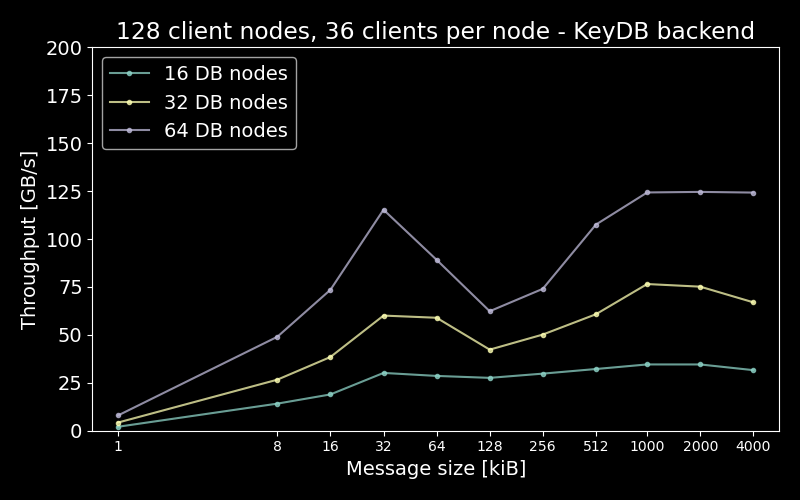
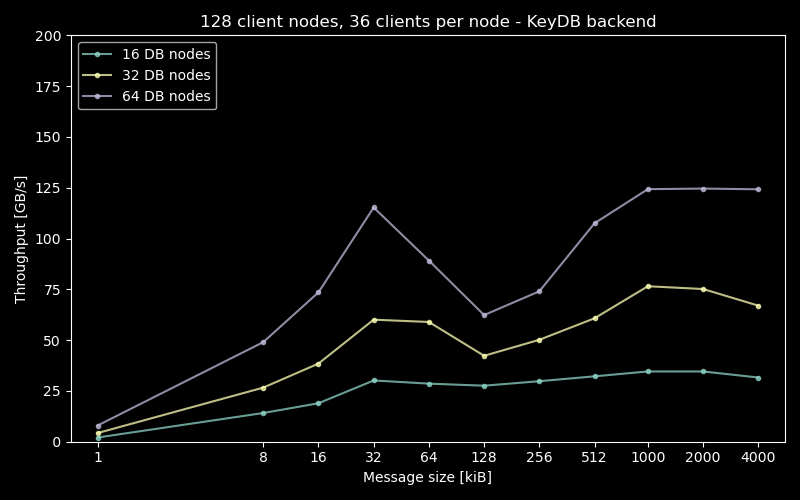
Fix figures and names, add comments to plotter

diff --git a/figures/throughput-plotter.py b/figures/throughput-plotter.py
@@ -1,4 +1,3 @@
-# %%
 import os
 import matplotlib.pyplot as plt
 import matplotlib
@@ -9,25 +8,19 @@ import seaborn as sns
 from itertools import product
 from tqdm.auto import tqdm
 
-font = {'family' : 'sans',
-        'weight' : 'normal',
-        'size'   : 14}
-matplotlib.rc('font', **font)
 
 palette = sns.set_palette("colorblind", color_codes=True)
 
-backends = ["KeyDB","Redis"]
+backends = ["Redis","KeyDB"]
 nnodes_all = [128,256,512]
 
 
 for backend, nnodes in tqdm(product(backends, nnodes_all), total=len(backends)*len(nnodes_all), desc="Product loop"):
 
-    base_path = f"./throughput-scaling-{backend.lower()}-2"
-    #print(base_path)
+    # Adapt to your setup
+    base_path = f"../throughput-scaling-{backend.lower()}"
 
-    # nnodes = 128
     DB_nodes = [16,32,64]
-    #sizes = [1024, 1024000, 131076, 16384, 2048000, 262152, 32769, 4096000, 524304, 65538, 8192]
     sizes = [1024, 1024000, 131072, 16384, 2048000, 262144, 32768, 4096000, 524288, 65536, 8192]
     threads = 36
     loop_iters = 100
@@ -35,13 +28,12 @@ for backend, nnodes in tqdm(product(backends, nnodes_all), total=len(backends)*l
 
     df_dbs = dict()
 
-
-    for DB_node in tqdm(DB_nodes, leave=False, desc=f"DB node analysis loop for {backend}-{nnodes}"):
+    for DB_node in tqdm(DB_nodes, leave=False, desc=f"{backend}-{nnodes}"):
 
         dfs = dict()
 
-        for size in tqdm(sizes, leave=False, desc=f"Size analysis loop for {DB_node} DB nodes"):
-            path_root = os.path.join(base_path, f'thoughput-sess-N{nnodes}-T{threads}-DBN{DB_node}-ITER{loop_iters}-TB{size}-*')
+        for size in tqdm(sizes, leave=False, desc=f"{DB_node} DB nodes"):
+            path_root = os.path.join(base_path, f'throughput-sess-N{nnodes}-T{threads}-DBN{DB_node}-ITER{loop_iters}-TB{size}-*')
             try:
                 globbed = glob(path_root)            
                 path = globbed[0]
@@ -60,22 +52,19 @@ for backend, nnodes in tqdm(product(backends, nnodes_all), total=len(backends)*l
                                     speed = size*loop_iters/float(vals[2])/1e9
                                     function_times[vals[1]].append(speed)
 
-                #function_times = {'loop_time': function_times['loop_time']}
                 speed = function_times['loop_time']
-                # speed.sort()
-                #function_times['loop_time'] = speed[:-4]
+
                 speed = function_times['loop_time']
-                # print(min(speed), max(speed))
                 data_df = pd.DataFrame(function_times)
                 dfs[size] = data_df
 
-                # print(f"Completed {size} size for {DB_node} DB nodes")
             except:
                 print("WARNING, MISSING PATH:", path_root)
                 
 
         df_dbs[DB_node] = dfs
 
+    # Set to false if this code is run inside a notebook
     save = True
 
     for dark in tqdm([True, False], leave=False, desc="Plot style loop"):
@@ -84,8 +73,9 @@ for backend, nnodes in tqdm(product(backends, nnodes_all), total=len(backends)*l
             plot_color="dark"
         else:
             plt.style.use("default")
-            plot_color="bright"
+            plot_color="light"
 
+                    
         labels = ["loop_time"]
 
         legend_entries = []
@@ -93,7 +83,7 @@ for backend, nnodes in tqdm(product(backends, nnodes_all), total=len(backends)*l
         ranks = np.asarray(sizes)
         whiskers = 1e9
         color_short = "rgbmy"
-        plot_type = "violin"
+        plot_type = "agg"
 
         rank_pos = np.log(ranks/ranks[0])+1
 
@@ -103,59 +93,70 @@ for backend, nnodes in tqdm(product(backends, nnodes_all), total=len(backends)*l
 
         quantiles = [[0.25, 0.75] for _ in ranks]
 
-        # Set subplot_index to None to plot to separate files
         for label in tqdm(labels, desc=f"Dark plot: {dark}", leave=False):
 
             fig, ax = plt.subplots(figsize=(8,5))
-            # ax2 = ax.twinx()
+
+            if plot_type != "agg":
+                ax2 = ax.twinx()
             
             for i, DB_node in enumerate(tqdm(DB_nodes, leave=False, desc="DB node plot loop")):
                 dfs = df_dbs[DB_node]
                 data_list = [dfs[size][label] for size in sizes]
                 props_dict = {"color": sns.color_palette()[i]}
-                positions = rank_pos # rank_pos+spacing*(i-(len(DB_nodes)-1)/2)
+                
+                positions = rank_pos if plot_type == "agg" else rank_pos+spacing*(i-(len(DB_nodes)-1)/2)
                 means = [np.sum(dfs[size][label]) for size in sizes]
                 ax.plot(positions, means, '.-', color=props_dict['color'], alpha=0.75)
-                # if plot_type=="violin":
-                #     plot = ax2.violinplot(data_list, positions=positions,
-                #                         widths=widths, showextrema=True)
-                #     [col.set_alpha(0.3) for col in plot["bodies"]]
-                #     entry = plot["cbars"]
-                #     legend_entries.append(entry)
-                # else:
-                #     plot = ax2.boxplot(data_list, showfliers=True, positions=positions, whis=whiskers, labels=['']*len(ranks),
-                #                     boxprops=props_dict, whiskerprops=props_dict, medianprops=props_dict, capprops=props_dict, widths=widths/2)
-                #     legend_entries.append(plot["whiskers"][0])
+                if plot_type != "agg":
+                    if plot_type=="violin":
+                        plot = ax2.violinplot(data_list, positions=positions,
+                                            widths=widths, showextrema=True)
+                        [col.set_alpha(0.3) for col in plot["bodies"]]
+                        entry = plot["cbars"]
+                        legend_entries.append(entry)
+                    elif plot_type=="boxplot":
+                        plot = ax2.boxplot(data_list, showfliers=True, positions=positions, whis=whiskers, labels=['']*len(ranks),
+                                        boxprops=props_dict, whiskerprops=props_dict, medianprops=props_dict, capprops=props_dict, widths=widths/2)
+                        legend_entries.append(plot["whiskers"][0])
+                    else:
+                        raise ValueError("Only boxplot, violin, and agg are valid plot types")
 
 
                 ax.set_ylim([0, 200])
-                # ax2.set_ylim([0, 200/(threads*nnodes)])
+                if plot_type != "agg":
+                    ax2.set_ylim([0, 200/(threads*nnodes)])
                 ax.yaxis.set_major_formatter(matplotlib.ticker.FormatStrFormatter('%2.0f'))
         
         ax.set_xlim([rank_pos[0]-distance/2, rank_pos[-1]+distance/2])
         ax.set_xticks(rank_pos, minor=False)
 
-        # x_minor_ticks = []
-        # for i, pos in enumerate(rank_pos[:-1]):
-        #     if i and pos-rank_pos[i-1] > distance*1.5:
-        #         x_minor_ticks.append(pos-distance/2)
-        #     x_minor_ticks.append(pos+distance/2)
+        if plot_type != means:
+            x_minor_ticks = []
+            for i, pos in enumerate(rank_pos[:-1]):
+                if i and pos-rank_pos[i-1] > distance*1.5:
+                    x_minor_ticks.append(pos-distance/2)
+                x_minor_ticks.append(pos+distance/2)
 
-        # ax.set_xticks(x_minor_ticks, minor=True)
+            ax.set_xticks(x_minor_ticks, minor=True)
 
         labels = ["1", "8", "16", "32", "64", "128", "256", "512", "1000", "2000", "4000"]
         ax.set_xticklabels(labels, fontdict={'fontsize': 10})
-        # ax.grid(True, which="minor", axis="x", ls=":", markevery=rank_pos[:-1]+distance/2)
 
-        # ax2.legend(legend_entries,  [f'{db_node} DB nodes' for db_node in DB_nodes],
-        #         loc='upper left')
+        if plot_type != "agg":
+            ax.grid(True, which="minor", axis="x", ls=":", markevery=rank_pos[:-1]+distance/2)
 
-        ax.legend([f'{db_node} DB nodes' for db_node in DB_nodes],
-                loc='upper left')
+        if plot_type == means:
+            ax2.legend(legend_entries,  [f'{db_node} DB nodes' for db_node in DB_nodes],
+                    loc='upper left')
+        else:
+            ax.legend([f'{db_node} DB nodes' for db_node in DB_nodes],
+                    loc='upper left')
 
         plt.title(f"{nnodes} client nodes, {threads} clients per node - {backend} backend")
         plt.xlabel("Message size [kiB]")
-        # ax2.set_ylabel("Single client throughput distribution [GB/s]")
+        if plot_type != "agg":
+            ax2.set_ylabel("Single client throughput distribution [GB/s]")
         ax.set_ylabel("Throughput [GB/s]")
         plt.tick_params(
             axis='x',          # changes apply to the x-axis
@@ -170,9 +171,6 @@ for backend, nnodes in tqdm(product(backends, nnodes_all), total=len(backends)*l
 
         if save:
             plt.savefig(f"{label}-{nnodes}-{backend.lower()}_{plot_color}.png")
-
-
-# %%
 
 
 
